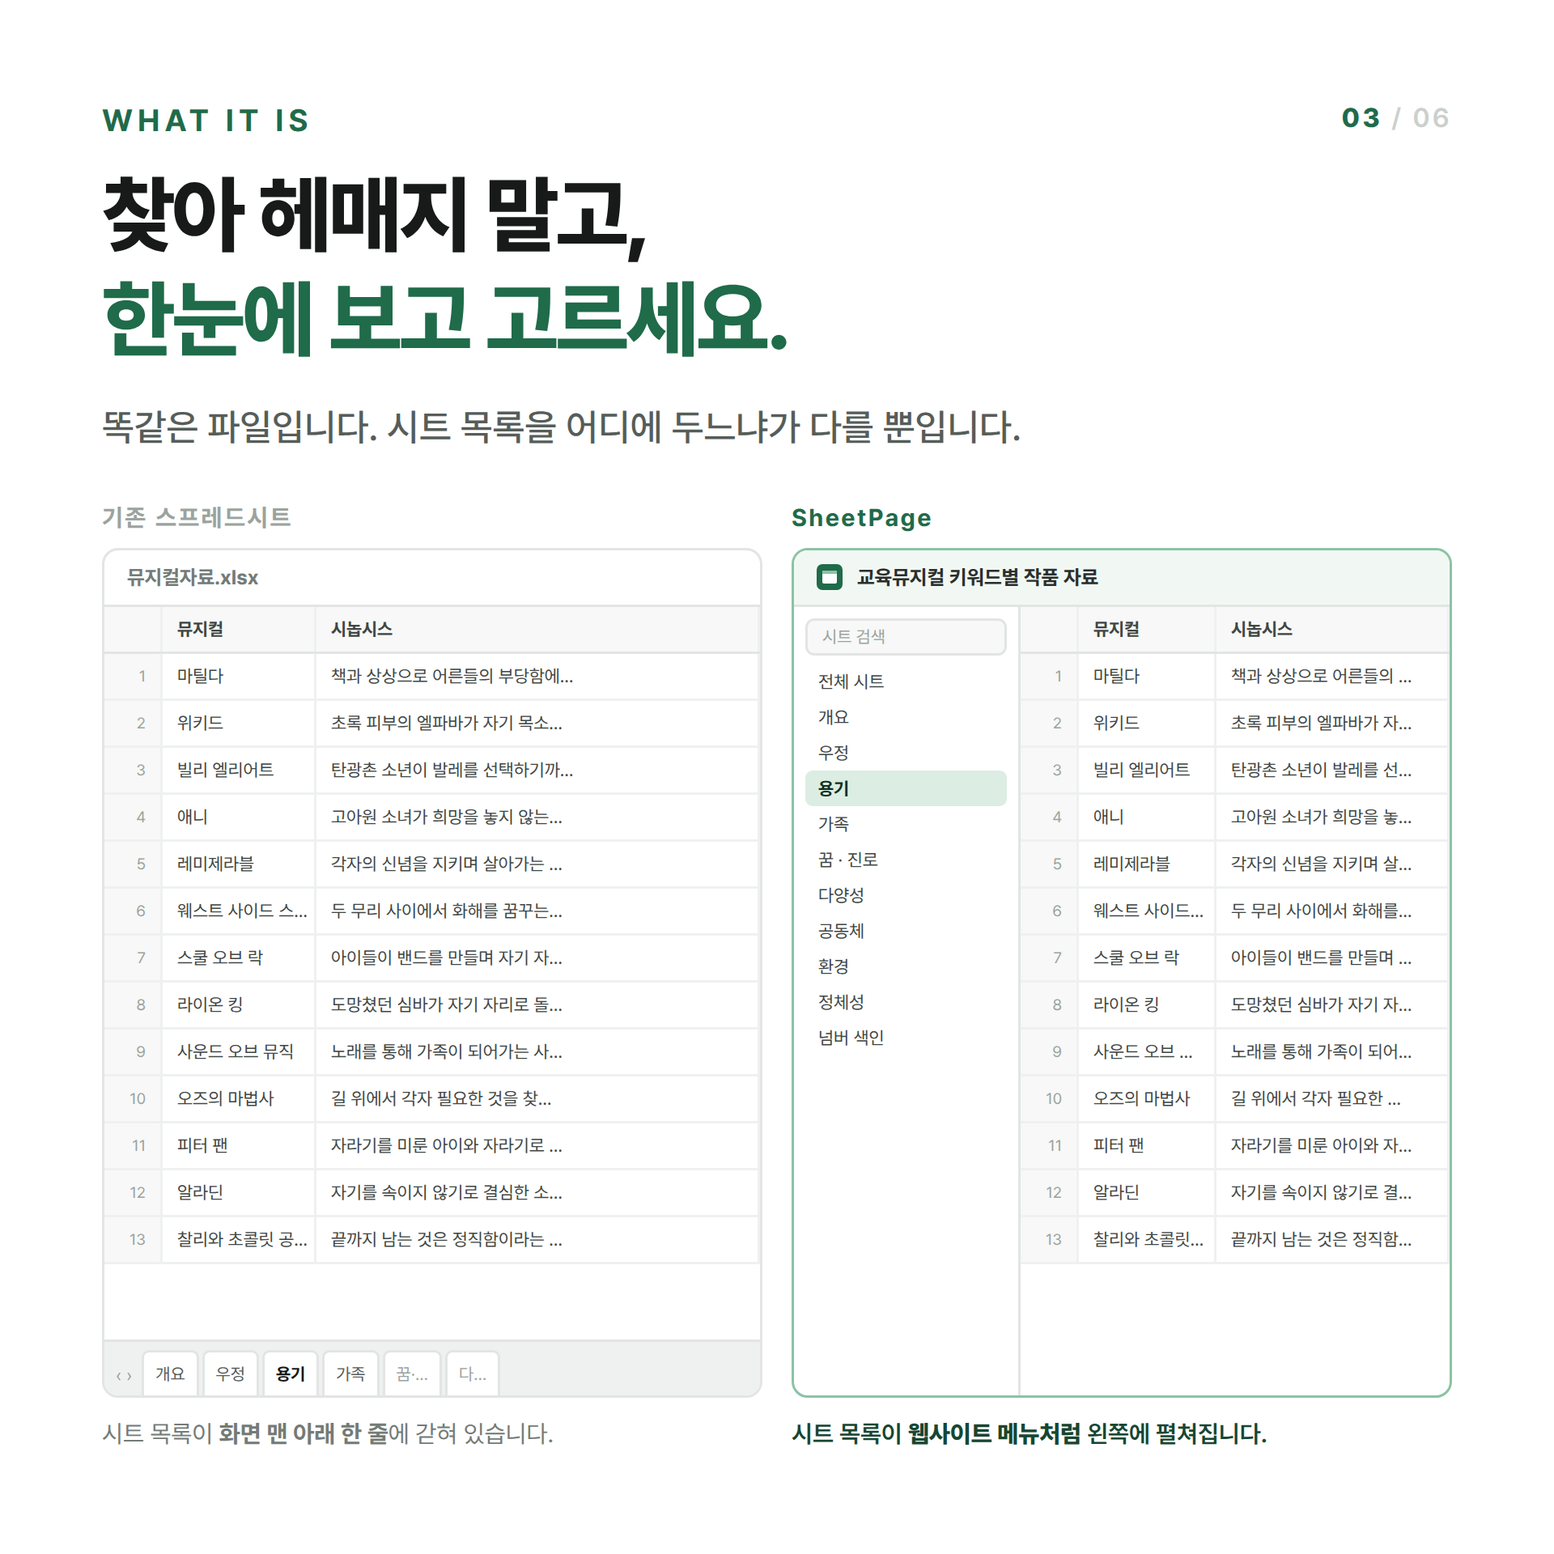
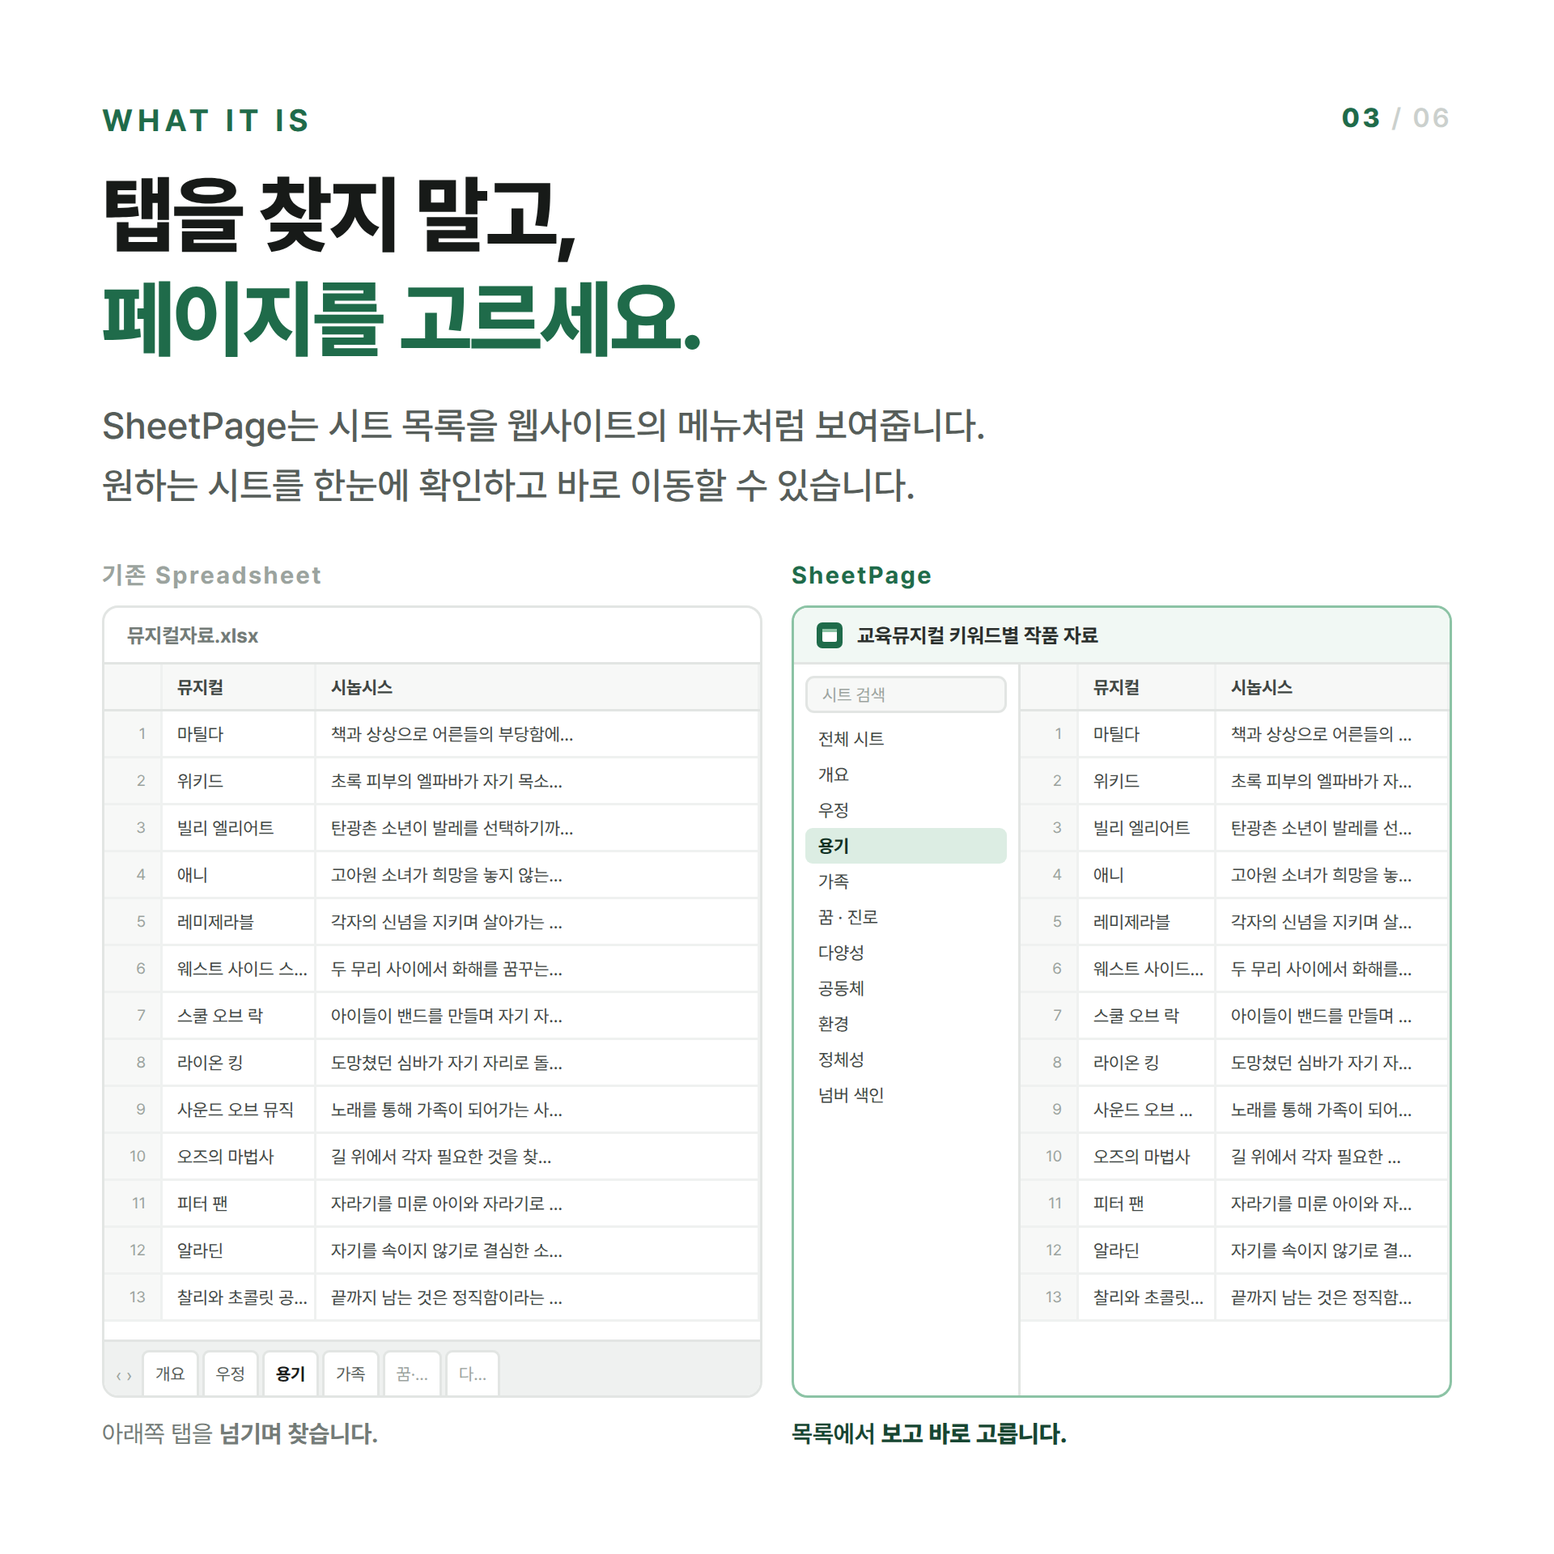
docs: apply the supplied copy across all six cards
Card text replaced with the wording provided, trimmed only where it did not
fit the layout:

- 05's headline ran past the card at heading size, so it keeps the four verbs
  (보고, 고치고, 내려받고, 공유합니다) and the full sentence moves to the lead
  underneath, where it reads at full length.
- 02 and 04 close on a single line rather than two, which the widths allowed.

02 loses its four bullet points to the new two-paragraph copy, so the window
mock grows to carry the card and now shows twelve rows above the crammed tab
strip — the same file the other cards use.

Card 01 is a picture of the real home screen, so the screen itself now says
탐색해보세요 too, in the app and in its meta description. A promotional card
that quotes the product should quote it accurately.

Credit line follows the standing footer form: Created by. 교육뮤지컬 꿈꾸는 치수쌤.

Verified: lint clean, workbook and function checks pass, build succeeds, and
all six browser suites still pass against the changed home-screen string.

Claude-Session: https://claude.ai/code/session_01KWbYgYUuipQb8NS2rBP39c

diff --git a/assets/cardnews/cards.html b/assets/cardnews/cards.html
@@ -161,7 +161,7 @@
     </div>
 
     <h2>Spreadsheet를 Page처럼.</h2>
-    <p class="hsub">복잡한 Excel과 Google Sheets를 웹페이지처럼 편하게 탐색하세요.</p>
+    <p class="hsub">복잡한 Excel과 Google Sheets를 웹페이지처럼 편하게 탐색해보세요.</p>
 
     <div class="drop">
       <svg class="di" viewBox="0 0 24 24" fill="none" stroke="currentColor" stroke-width="1.6" stroke-linecap="round" stroke-linejoin="round">
@@ -186,8 +186,8 @@
     </div>
   </div>
 
-  <p class="lead" style="margin-top:46px;color:var(--ink-800);font-weight:600">
-    파일 하나만 올리면 됩니다. 설치도 로그인도 없습니다.
+  <p class="lead" style="margin-top:44px;color:var(--ink-800);font-weight:600">
+    파일을 올리거나 공개 Google Sheets 링크를 붙여넣으면 바로 시작할 수 있습니다.
   </p>
 </div>
 
@@ -195,15 +195,26 @@
 <div class="card" id="c2">
   <div class="pager"><b>02</b> / 06</div>
   <div class="eyebrow">Problem</div>
-  <h1 style="margin-top:30px">자료는 잘 정리했는데,<br/>정작 <span style="color:var(--brand-600)">찾기가 어렵습니다.</span></h1>
-  <p class="lead" style="margin-top:34px">키워드별로 탭을 나눌수록 하단 탭은 더 좁아집니다.</p>
+  <h1 style="margin-top:30px">정리는 잘했는데,<br/><span style="color:var(--brand-600)">찾는 데 시간이 듭니다.</span></h1>
+  <p class="lead" style="margin-top:34px">
+    시트가 많아질수록 아래쪽 탭은 복잡해지고,<br/>필요한 내용을 찾고 읽는 일도 어려워집니다.
+  </p>
 
-  <div class="win" style="margin-top:56px">
+  <div class="win" style="margin-top:52px;flex:1;min-height:0">
     <div class="gridarea">
       <div class="gr h"><div class="gc gn"></div><div class="gc" style="width:250px">뮤지컬</div><div class="gc" style="width:430px">시놉시스</div><div class="gc" style="width:300px">주요 넘버</div><div class="gc" style="flex:1">수업 아이디어</div></div>
       <div class="gr"><div class="gc gn">1</div><div class="gc" style="width:250px"><span>마틸다</span></div><div class="gc" style="width:430px"><span>책과 상상으로 어른들의 부당함에 맞서는 소녀</span></div><div class="gc" style="width:300px"><span>Naughty</span></div><div class="gc" style="flex:1"><span>'조금 나쁜' 용기 장면 만들기</span></div></div>
       <div class="gr"><div class="gc gn">2</div><div class="gc" style="width:250px"><span>위키드</span></div><div class="gc" style="width:430px"><span>초록 피부의 엘파바가 자기 목소리를 찾아가는 이야기</span></div><div class="gc" style="width:300px"><span>Defying Gravity</span></div><div class="gc" style="flex:1"><span>중력을 거스르는 선택 즉흥극</span></div></div>
       <div class="gr"><div class="gc gn">3</div><div class="gc" style="width:250px"><span>빌리 엘리어트</span></div><div class="gc" style="width:430px"><span>탄광촌 소년이 발레를 선택하기까지의 이야기</span></div><div class="gc" style="width:300px"><span>Electricity</span></div><div class="gc" style="flex:1"><span>몸으로 감정 표현하기 워크숍</span></div></div>
+      <div class="gr"><div class="gc gn">4</div><div class="gc" style="width:250px"><span>애니</span></div><div class="gc" style="width:430px"><span>고아원 소녀가 희망을 놓지 않는 이야기</span></div><div class="gc" style="width:300px"><span>Tomorrow</span></div><div class="gc" style="flex:1"><span>'내일' 가사 바꿔 쓰기</span></div></div>
+      <div class="gr"><div class="gc gn">5</div><div class="gc" style="width:250px"><span>레미제라블</span></div><div class="gc" style="width:430px"><span>각자의 신념을 지키며 살아가는 사람들의 이야기</span></div><div class="gc" style="width:300px"><span>Do You Hear the People Sing?</span></div><div class="gc" style="flex:1"><span>함께 부르는 합창 장면 구성</span></div></div>
+      <div class="gr"><div class="gc gn">6</div><div class="gc" style="width:250px"><span>웨스트 사이드 스토리</span></div><div class="gc" style="width:430px"><span>두 무리 사이에서 화해를 꿈꾸는 청춘들</span></div><div class="gc" style="width:300px"><span>Somewhere</span></div><div class="gc" style="flex:1"><span>갈등 조정 역할극</span></div></div>
+      <div class="gr"><div class="gc gn">7</div><div class="gc" style="width:250px"><span>스쿨 오브 락</span></div><div class="gc" style="width:430px"><span>아이들이 밴드를 만들며 자기 자리를 찾는 이야기</span></div><div class="gc" style="width:300px"><span>You're in the Band</span></div><div class="gc" style="flex:1"><span>역할 나눠 밴드 구성하기</span></div></div>
+      <div class="gr"><div class="gc gn">8</div><div class="gc" style="width:250px"><span>라이온 킹</span></div><div class="gc" style="width:430px"><span>도망쳤던 심바가 자기 자리로 돌아오기까지</span></div><div class="gc" style="width:300px"><span>Circle of Life</span></div><div class="gc" style="flex:1"><span>순환을 몸짓으로 표현하기</span></div></div>
+      <div class="gr"><div class="gc gn">9</div><div class="gc" style="width:250px"><span>사운드 오브 뮤직</span></div><div class="gc" style="width:430px"><span>노래를 통해 가족이 되어가는 사람들</span></div><div class="gc" style="width:300px"><span>Do-Re-Mi</span></div><div class="gc" style="flex:1"><span>계이름으로 짧은 노래 만들기</span></div></div>
+      <div class="gr"><div class="gc gn">10</div><div class="gc" style="width:250px"><span>오즈의 마법사</span></div><div class="gc" style="width:430px"><span>길 위에서 각자 필요한 것을 찾아가는 여정</span></div><div class="gc" style="width:300px"><span>Over the Rainbow</span></div><div class="gc" style="flex:1"><span>내가 찾고 싶은 것 이야기하기</span></div></div>
+      <div class="gr"><div class="gc gn">11</div><div class="gc" style="width:250px"><span>피터 팬</span></div><div class="gc" style="width:430px"><span>자라기를 미룬 아이와 자라기로 한 아이</span></div><div class="gc" style="width:300px"><span>I Won't Grow Up</span></div><div class="gc" style="flex:1"><span>자람에 대해 찬반 토론하기</span></div></div>
+      <div class="gr"><div class="gc gn">12</div><div class="gc" style="width:250px"><span>알라딘</span></div><div class="gc" style="width:430px"><span>자기를 속이지 않기로 결심한 소년</span></div><div class="gc" style="width:300px"><span>A Whole New World</span></div><div class="gc" style="flex:1"><span>새로운 세계 장면 그려보기</span></div></div>
     </div>
     <div class="strip">
       <span class="arrows">‹ ›</span>
@@ -213,27 +224,25 @@
     </div>
   </div>
 
-  <div class="pains" style="margin-top:64px">
-    <div class="pain"><span class="x">?</span><span class="t">'환경' 탭이 어디였더라 — 좌우 화살표를 계속 눌러야 합니다.</span></div>
-    <div class="pain"><span class="x">?</span><span class="t">탭 이름이 잘려서 무슨 키워드인지 알 수 없습니다.</span></div>
-    <div class="pain"><span class="x">?</span><span class="t">동료에게 보내도 결국 같은 엑셀 화면을 헤매게 됩니다.</span></div>
-    <div class="pain"><span class="x">?</span><span class="t">긴 시놉시스는 셀 안에서 잘려 읽을 수가 없습니다.</span></div>
-  </div>
+  <p class="lead" style="margin-top:44px;color:var(--ink-800);font-weight:600">
+    정리된 파일도 원하는 시트에 도착하기까지 여러 번의 탐색이 필요합니다.
+  </p>
 </div>
 
 <!-- ==================== 03 개요 · 철학 ==================== -->
 <div class="card" id="c3">
   <div class="pager"><b>03</b> / 06</div>
   <div class="eyebrow">What it is</div>
-  <h1 style="margin-top:30px">찾아 헤매지 말고,<br/><span style="color:var(--brand-600)">한눈에 보고 고르세요.</span></h1>
-  <p class="lead" style="margin-top:32px">
-    똑같은 파일입니다. 시트 목록을 어디에 두느냐가 다를 뿐입니다.
+  <h1 style="margin-top:30px">탭을 찾지 말고,<br/><span style="color:var(--brand-600)">페이지를 고르세요.</span></h1>
+  <p class="lead" style="margin-top:30px">
+    SheetPage는 시트 목록을 웹사이트의 메뉴처럼 보여줍니다.<br/>
+    원하는 시트를 한눈에 확인하고 바로 이동할 수 있습니다.
   </p>
 
   <div class="versus" style="margin-top:56px">
     <!-- before -->
     <div class="vcol">
-      <div class="vlabel">기존 스프레드시트</div>
+      <div class="vlabel">기존 Spreadsheet</div>
       <div class="win" style="flex:1">
         <div class="bar" style="height:70px"><span class="t" style="font-size:25px;color:var(--ink-500)">뮤지컬자료.xlsx</span></div>
         <div class="bd">
@@ -264,7 +273,7 @@
           <div class="xt cut" style="height:56px;font-size:21px;padding:0 14px">다…</div>
         </div>
       </div>
-      <p class="vnote">시트 목록이 <b>화면 맨 아래 한 줄</b>에 갇혀 있습니다.</p>
+      <p class="vnote">아래쪽 탭을 <b>넘기며 찾습니다.</b></p>
     </div>
 
     <!-- after -->
@@ -308,7 +317,7 @@
           </div>
         </div>
       </div>
-      <p class="vnote acc">시트 목록이 <b>웹사이트 메뉴처럼</b> 왼쪽에 펼쳐집니다.</p>
+      <p class="vnote acc">목록에서 <b>보고 바로 고릅니다.</b></p>
     </div>
   </div>
 </div>
@@ -317,9 +326,9 @@
 <div class="card" id="c4">
   <div class="pager"><b>04</b> / 06</div>
   <div class="eyebrow">Overview</div>
-  <h1 style="margin-top:30px">열어보기 전에<br/><span style="color:var(--brand-600)">무엇이 들어 있는지</span> 압니다.</h1>
-  <p class="lead" style="margin-top:32px">
-    전체 시트 화면이 모든 시트를 목차처럼 펼쳐 보여줍니다.
+  <h1 style="margin-top:30px">파일을 열면,<br/><span style="color:var(--brand-600)">먼저 전체가 보입니다.</span></h1>
+  <p class="lead" style="margin-top:30px">
+    전체 시트 화면에서 파일 안의 구성을<br/>웹사이트의 목차처럼 한눈에 살펴볼 수 있습니다.
   </p>
 
   <div class="win" style="margin-top:52px;flex:1;min-height:0">
@@ -380,8 +389,8 @@
     </div>
   </div>
 
-  <p class="lead" style="margin-top:44px;color:var(--ink-800);font-weight:600">
-    탭을 하나씩 눌러보며 확인할 일이 없습니다.
+  <p class="lead" style="margin-top:40px;color:var(--ink-800);font-weight:600">
+    시트 이름과 내용 미리보기를 확인하고, 필요한 페이지로 바로 이동하세요.
   </p>
 </div>
 
@@ -389,34 +398,38 @@
 <div class="card" id="c5">
   <div class="pager"><b>05</b> / 06</div>
   <div class="eyebrow">Features</div>
-  <h1 style="margin-top:30px">읽고, 고치고,<br/><span style="color:var(--brand-600)">그대로 돌려받습니다.</span></h1>
+  <h1 style="margin-top:30px">보고, 고치고,<br/><span style="color:var(--brand-600)">내려받고, 공유합니다.</span></h1>
+  <p class="lead" style="margin-top:30px">
+    읽기 편한 화면으로 살펴보고 필요한 셀은 바로 수정하세요.<br/>
+    작업한 파일은 다시 Excel로 내려받거나 읽기 전용 링크로 공유할 수 있습니다.
+  </p>
 
-  <div class="rw" style="margin-top:64px;flex:1">
+  <div class="rw" style="margin-top:52px;flex:1">
     <div class="rh"><div class="cn"></div><div class="cl">A</div><div class="cl">B</div></div>
     <div class="rr">
       <div class="rn">1</div>
-      <div class="fc"><div class="ft">왼쪽 목차 · 시트 검색</div><div class="fd">탭이 서른 개여도 사이트 메뉴처럼<br/>펼쳐 보고, 이름으로 바로 찾습니다.</div></div>
-      <div class="fc"><div class="ft">전체 시트 한눈에</div><div class="fd">시트마다 이름 · 크기 · 첫 몇 줄을<br/>목차 페이지로 미리 봅니다.</div></div>
+      <div class="fc"><div class="ft">시트 목록 · 검색</div><div class="fd">원하는 시트를 빠르게 찾습니다.</div></div>
+      <div class="fc"><div class="ft">전체 시트 한눈에</div><div class="fd">파일 구성을 목차처럼 살펴봅니다.</div></div>
     </div>
     <div class="rr">
       <div class="rn">2</div>
-      <div class="fc"><div class="ft">읽기 보기</div><div class="fd">긴 시놉시스도 잘리지 않고<br/>웹 문서처럼 줄바꿈되어 읽힙니다.</div></div>
-      <div class="fc"><div class="ft">머리글 고정 · 열 너비</div><div class="fd">스크롤해도 열 제목이 붙어 있고<br/>열 너비는 끌어서 넓힙니다.</div></div>
+      <div class="fc"><div class="ft">읽기 보기</div><div class="fd">긴 내용도 편하게 읽습니다.</div></div>
+      <div class="fc"><div class="ft">머리글 고정 · 열 너비</div><div class="fd">큰 표도 흐름을 놓치지 않습니다.</div></div>
     </div>
     <div class="rr">
       <div class="rn">3</div>
-      <div class="fc"><div class="ft">셀 수정 · 실행 취소</div><div class="fd">웹에서 바로 고치고 Ctrl+Z로 되돌립니다.<br/>새로고침해도 그대로 남습니다.</div></div>
-      <div class="fc"><div class="ft">xlsx 다운로드</div><div class="fd">값 · 수식 · 병합 · 표시 형식 · 시트 순서를<br/>보존해 원본 형식으로 내려받습니다.</div></div>
+      <div class="fc"><div class="ft">셀 수정 · 실행 취소</div><div class="fd">필요한 내용을 바로 고칩니다.</div></div>
+      <div class="fc"><div class="ft">Excel 다운로드</div><div class="fd">수정한 파일을 .xlsx로 저장합니다.</div></div>
     </div>
     <div class="rr">
       <div class="rn">4</div>
-      <div class="fc"><div class="ft">링크 공유</div><div class="fd">동료는 설치도 로그인도 없이<br/>같은 목차 화면으로 바로 열어봅니다.</div></div>
-      <div class="fc"><div class="ft">Google Sheets 불러오기</div><div class="fd">공개 링크를 붙여넣으면<br/>업로드한 파일과 똑같이 열립니다.</div></div>
+      <div class="fc"><div class="ft">링크 공유</div><div class="fd">읽기 전용 링크로 파일을 공유합니다.</div></div>
+      <div class="fc"><div class="ft">Google Sheets 불러오기</div><div class="fd">공개된 시트 링크를 바로 불러옵니다.</div></div>
     </div>
   </div>
 </div>
 
-<!-- ==================== 05 아웃트로 ==================== -->
+<!-- ==================== 06 아웃트로 ==================== -->
 <div class="card" id="c6">
   <div class="pager"><b>06</b> / 06</div>
   <div class="logo">
@@ -425,10 +438,10 @@
   </div>
 
   <div style="margin-top:auto;margin-bottom:auto">
-    <h1 class="big">그 파일,<br/>여기서 열어보세요.</h1>
+    <h1 class="big">지금 그 파일,<br/>여기서 열어보세요.</h1>
     <p class="lead" style="margin-top:52px">
-      탭이 많아 미뤄두었던 파일일수록<br/>
-      달라지는 게 바로 보입니다.
+      탭이 많아 열어볼 때마다 막막했던 파일도,<br/>
+      이제는 페이지를 넘기듯 편하게 살펴보세요.
     </p>
     <div class="urlbox" style="margin-top:66px">
       <svg viewBox="0 0 24 24" style="width:44px;height:44px;fill:none;stroke:#1A573D;stroke-width:2.2;stroke-linecap:round">
@@ -440,8 +453,7 @@
   </div>
 
   <div class="credit">
-    <span class="k">개발자</span>
-    <span class="v">교육뮤지컬 꿈꾸는 치수쌤</span>
+    <span class="v">Created by. 교육뮤지컬 꿈꾸는 치수쌤</span>
     <span class="k" style="margin-left:auto">litt.ly/chichiboo</span>
   </div>
 </div>

diff --git a/index.html b/index.html
@@ -7,14 +7,14 @@
     <title>SheetPage — Spreadsheet를 Page처럼.</title>
     <meta
       name="description"
-      content="복잡한 Excel과 Google Sheets를 웹페이지처럼 편하게 탐색하세요. 시트를 페이지처럼 열고, 수정하고, xlsx로 내려받고, 링크로 공유합니다."
+      content="복잡한 Excel과 Google Sheets를 웹페이지처럼 편하게 탐색해보세요. 시트를 페이지처럼 열고, 수정하고, xlsx로 내려받고, 링크로 공유합니다."
     />
     <link rel="canonical" href="https://sheetpage.chichiboo.link/" />
     <meta property="og:site_name" content="SheetPage" />
     <meta property="og:title" content="SheetPage — Spreadsheet를 Page처럼." />
     <meta
       property="og:description"
-      content="복잡한 Excel과 Google Sheets를 웹페이지처럼 편하게 탐색하세요."
+      content="복잡한 Excel과 Google Sheets를 웹페이지처럼 편하게 탐색해보세요."
     />
     <meta property="og:type" content="website" />
     <meta property="og:url" content="https://sheetpage.chichiboo.link/" />
@@ -27,7 +27,7 @@
     <meta name="twitter:title" content="SheetPage — Spreadsheet를 Page처럼." />
     <meta
       name="twitter:description"
-      content="복잡한 Excel과 Google Sheets를 웹페이지처럼 편하게 탐색하세요."
+      content="복잡한 Excel과 Google Sheets를 웹페이지처럼 편하게 탐색해보세요."
     />
     <meta name="twitter:image" content="https://sheetpage.chichiboo.link/og-image.png" />
     <link

diff --git a/src/components/home/HomeScreen.tsx b/src/components/home/HomeScreen.tsx
@@ -55,7 +55,7 @@ export function HomeScreen({ onFile, onGoogleSheet }: HomeScreenProps) {
           Spreadsheet를 Page처럼.
         </h1>
         <p className="mt-3 text-[15px] leading-relaxed text-ink-500 sm:text-base">
-          복잡한 Excel과 Google Sheets를 웹페이지처럼 편하게 탐색하세요.
+          복잡한 Excel과 Google Sheets를 웹페이지처럼 편하게 탐색해보세요.
         </p>
 
         <div
